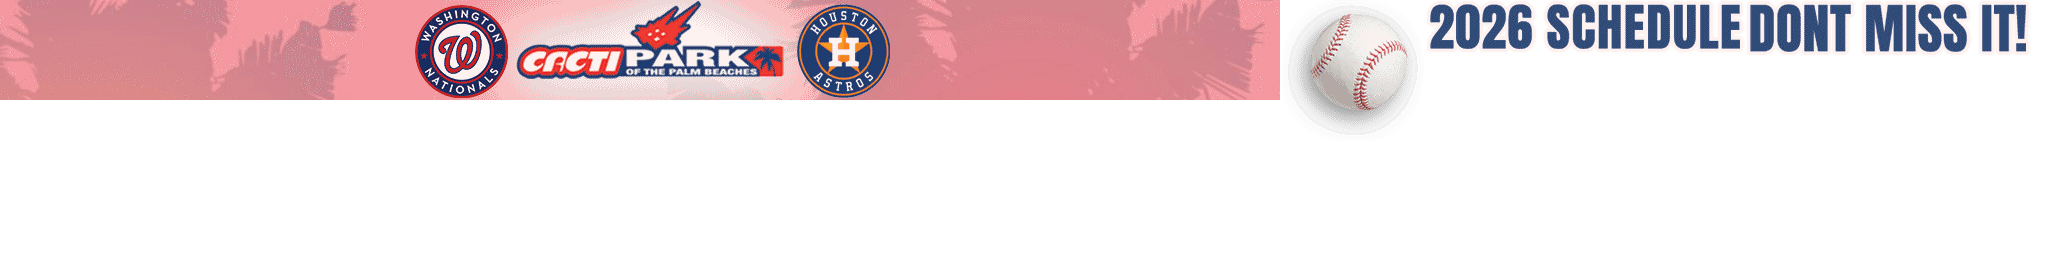
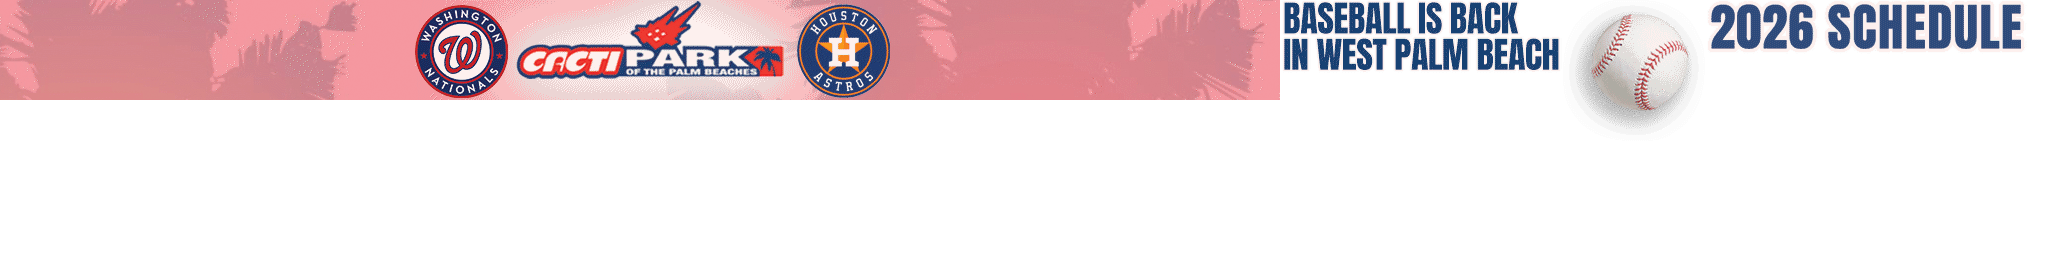
Add files via upload

diff --git a/uaps/320x50/320x50.js b/uaps/320x50/320x50.js
@@ -3,7 +3,7 @@
 var p; // shortcut to reference prototypes
 var lib={};var ss={};var img={};
 lib.ssMetadata = [
-		{name:"320x50_atlas_1", frames: [[642,0,142,141],[786,78,122,76],[0,0,640,100],[786,0,149,76]]}
+		{name:"320x50_atlas_1", frames: [[642,0,142,141],[0,0,640,100],[786,0,149,76],[786,78,154,40]]}
 ];
 
 
@@ -34,21 +34,21 @@ lib.ssMetadata = [
 
 
 
-(lib.Bitmap15 = function() {
+(lib.Bitmap18 = function() {
 	this.initialize(ss["320x50_atlas_1"]);
 	this.gotoAndStop(1);
 }).prototype = p = new cjs.Sprite();
 
 
 
-(lib.Bitmap18 = function() {
+(lib.Bitmap19 = function() {
 	this.initialize(ss["320x50_atlas_1"]);
 	this.gotoAndStop(2);
 }).prototype = p = new cjs.Sprite();
 
 
 
-(lib.Bitmap19 = function() {
+(lib.Bitmap20 = function() {
 	this.initialize(ss["320x50_atlas_1"]);
 	this.gotoAndStop(3);
 }).prototype = p = new cjs.Sprite();
@@ -83,14 +83,14 @@ if (reversed == null) { reversed = false; }
 	cjs.MovieClip.apply(this,[props]);
 
 	// Layer_1
-	this.instance = new lib.Bitmap15();
-	this.instance.setTransform(326,30,1.8852,1.8849);
+	this.instance = new lib.Bitmap20();
+	this.instance.setTransform(306,81,1.7794,1.7793);
 
 	this.timeline.addTween(cjs.Tween.get(this.instance).wait(1));
 
 	this._renderFirstFrame();
 
-}).prototype = getMCSymbolPrototype(lib.Symbol3, new cjs.Rectangle(326,30,230,143.3), null);
+}).prototype = getMCSymbolPrototype(lib.Symbol3, new cjs.Rectangle(306,81,274,71.19999999999999), null);
 
 
 (lib.Symbol2 = function(mode,startPosition,loop,reversed) {

diff --git a/uaps/728x90/728x90.js b/uaps/728x90/728x90.js
@@ -3,7 +3,7 @@
 var p; // shortcut to reference prototypes
 var lib={};var ss={};var img={};
 lib.ssMetadata = [
-		{name:"728x90_atlas_1", frames: [[299,92,142,141],[299,235,122,76],[0,92,297,152],[0,0,728,90]]}
+		{name:"728x90_atlas_1", frames: [[730,74,142,141],[0,92,297,152],[0,0,728,90],[730,0,279,72]]}
 ];
 
 
@@ -34,21 +34,21 @@ lib.ssMetadata = [
 
 
 
-(lib.Bitmap15 = function() {
+(lib.Bitmap17 = function() {
 	this.initialize(ss["728x90_atlas_1"]);
 	this.gotoAndStop(1);
 }).prototype = p = new cjs.Sprite();
 
 
 
-(lib.Bitmap17 = function() {
+(lib.Bitmap18 = function() {
 	this.initialize(ss["728x90_atlas_1"]);
 	this.gotoAndStop(2);
 }).prototype = p = new cjs.Sprite();
 
 
 
-(lib.Bitmap18 = function() {
+(lib.Bitmap20 = function() {
 	this.initialize(ss["728x90_atlas_1"]);
 	this.gotoAndStop(3);
 }).prototype = p = new cjs.Sprite();
@@ -83,14 +83,14 @@ if (reversed == null) { reversed = false; }
 	cjs.MovieClip.apply(this,[props]);
 
 	// Layer_1
-	this.instance = new lib.Bitmap15();
-	this.instance.setTransform(288,10,1.8852,1.8849);
+	this.instance = new lib.Bitmap20();
+	this.instance.setTransform(246,44,1.1255,1.1255);
 
 	this.timeline.addTween(cjs.Tween.get(this.instance).wait(1));
 
 	this._renderFirstFrame();
 
-}).prototype = getMCSymbolPrototype(lib.Symbol3, new cjs.Rectangle(288,10,230,143.3), null);
+}).prototype = getMCSymbolPrototype(lib.Symbol3, new cjs.Rectangle(246,44,314,81.1), null);
 
 
 (lib.Symbol2 = function(mode,startPosition,loop,reversed) {

diff --git a/uaps/970x66/970x66.js b/uaps/970x66/970x66.js
@@ -3,7 +3,7 @@
 var p; // shortcut to reference prototypes
 var lib={};var ss={};var img={};
 lib.ssMetadata = [
-		{name:"970x66_atlas_1", frames: [[0,68,142,141],[464,68,284,56],[144,68,318,53],[0,0,970,66]]}
+		{name:"970x66_atlas_1", frames: [[281,68,142,141],[425,68,318,53],[0,0,970,66],[0,68,279,72]]}
 ];
 
 
@@ -34,21 +34,21 @@ lib.ssMetadata = [
 
 
 
-(lib.Bitmap11 = function() {
+(lib.Bitmap15 = function() {
 	this.initialize(ss["970x66_atlas_1"]);
 	this.gotoAndStop(1);
 }).prototype = p = new cjs.Sprite();
 
 
 
-(lib.Bitmap15 = function() {
+(lib.Bitmap16 = function() {
 	this.initialize(ss["970x66_atlas_1"]);
 	this.gotoAndStop(2);
 }).prototype = p = new cjs.Sprite();
 
 
 
-(lib.Bitmap16 = function() {
+(lib.Bitmap17 = function() {
 	this.initialize(ss["970x66_atlas_1"]);
 	this.gotoAndStop(3);
 }).prototype = p = new cjs.Sprite();
@@ -83,14 +83,14 @@ if (reversed == null) { reversed = false; }
 	cjs.MovieClip.apply(this,[props]);
 
 	// Layer_1
-	this.instance = new lib.Bitmap11();
-	this.instance.setTransform(175,10,1.1268,1.1268);
+	this.instance = new lib.Bitmap17();
+	this.instance.setTransform(196,5);
 
 	this.timeline.addTween(cjs.Tween.get(this.instance).wait(1));
 
 	this._renderFirstFrame();
 
-}).prototype = getMCSymbolPrototype(lib.Symbol3, new cjs.Rectangle(175,10,320,63.099999999999994), null);
+}).prototype = getMCSymbolPrototype(lib.Symbol3, new cjs.Rectangle(196,5,279,72), null);
 
 
 (lib.Symbol2 = function(mode,startPosition,loop,reversed) {

diff --git a/uaps/1280x100/1280x100.js b/uaps/1280x100/1280x100.js
@@ -3,7 +3,7 @@
 var p; // shortcut to reference prototypes
 var lib={};var ss={};var img={};
 lib.ssMetadata = [
-		{name:"1280x100_atlas_1", frames: [[0,0,1280,100],[1282,0,142,141],[1746,0,284,56],[1426,0,318,53]]}
+		{name:"1280x100_atlas_1", frames: [[0,0,1280,100],[1563,0,142,141],[1707,0,318,53],[1282,0,279,72]]}
 ];
 
 
@@ -41,14 +41,14 @@ lib.ssMetadata = [
 
 
 
-(lib.Bitmap11 = function() {
+(lib.Bitmap12 = function() {
 	this.initialize(ss["1280x100_atlas_1"]);
 	this.gotoAndStop(2);
 }).prototype = p = new cjs.Sprite();
 
 
 
-(lib.Bitmap12 = function() {
+(lib.Bitmap14 = function() {
 	this.initialize(ss["1280x100_atlas_1"]);
 	this.gotoAndStop(3);
 }).prototype = p = new cjs.Sprite();
@@ -83,14 +83,14 @@ if (reversed == null) { reversed = false; }
 	cjs.MovieClip.apply(this,[props]);
 
 	// Layer_1
-	this.instance = new lib.Bitmap11();
-	this.instance.setTransform(55,14);
+	this.instance = new lib.Bitmap14();
+	this.instance.setTransform(43,5);
 
 	this.timeline.addTween(cjs.Tween.get(this.instance).wait(1));
 
 	this._renderFirstFrame();
 
-}).prototype = getMCSymbolPrototype(lib.Symbol3, new cjs.Rectangle(55,14,284,56), null);
+}).prototype = getMCSymbolPrototype(lib.Symbol3, new cjs.Rectangle(43,5,279,72), null);
 
 
 (lib.Symbol2 = function(mode,startPosition,loop,reversed) {

diff --git a/uaps/300x250/300x250.js b/uaps/300x250/300x250.js
@@ -3,7 +3,7 @@
 var p; // shortcut to reference prototypes
 var lib={};var ss={};var img={};
 lib.ssMetadata = [
-		{name:"300x250_atlas_1", frames: [[247,252,213,42],[302,0,142,141],[0,252,245,41],[0,0,300,250]]}
+		{name:"300x250_atlas_1", frames: [[0,252,279,72],[0,326,142,141],[0,469,245,41],[0,0,300,250]]}
 ];
 
 
@@ -27,7 +27,7 @@ lib.ssMetadata = [
 
 
 
-(lib.Bitmap3 = function() {
+(lib.Bitmap10 = function() {
 	this.initialize(ss["300x250_atlas_1"]);
 	this.gotoAndStop(0);
 }).prototype = p = new cjs.Sprite();
@@ -127,14 +127,14 @@ if (reversed == null) { reversed = false; }
 	cjs.MovieClip.apply(this,[props]);
 
 	// Layer_1
-	this.instance = new lib.Bitmap3();
-	this.instance.setTransform(-4,3);
+	this.instance = new lib.Bitmap10();
+	this.instance.setTransform(18,5,0.6093,0.6092);
 
 	this.timeline.addTween(cjs.Tween.get(this.instance).wait(1));
 
 	this._renderFirstFrame();
 
-}).prototype = getMCSymbolPrototype(lib.Symbol1, new cjs.Rectangle(-4,3,213,42), null);
+}).prototype = getMCSymbolPrototype(lib.Symbol1, new cjs.Rectangle(18,5,170,43.9), null);
 
 
 // stage content:
